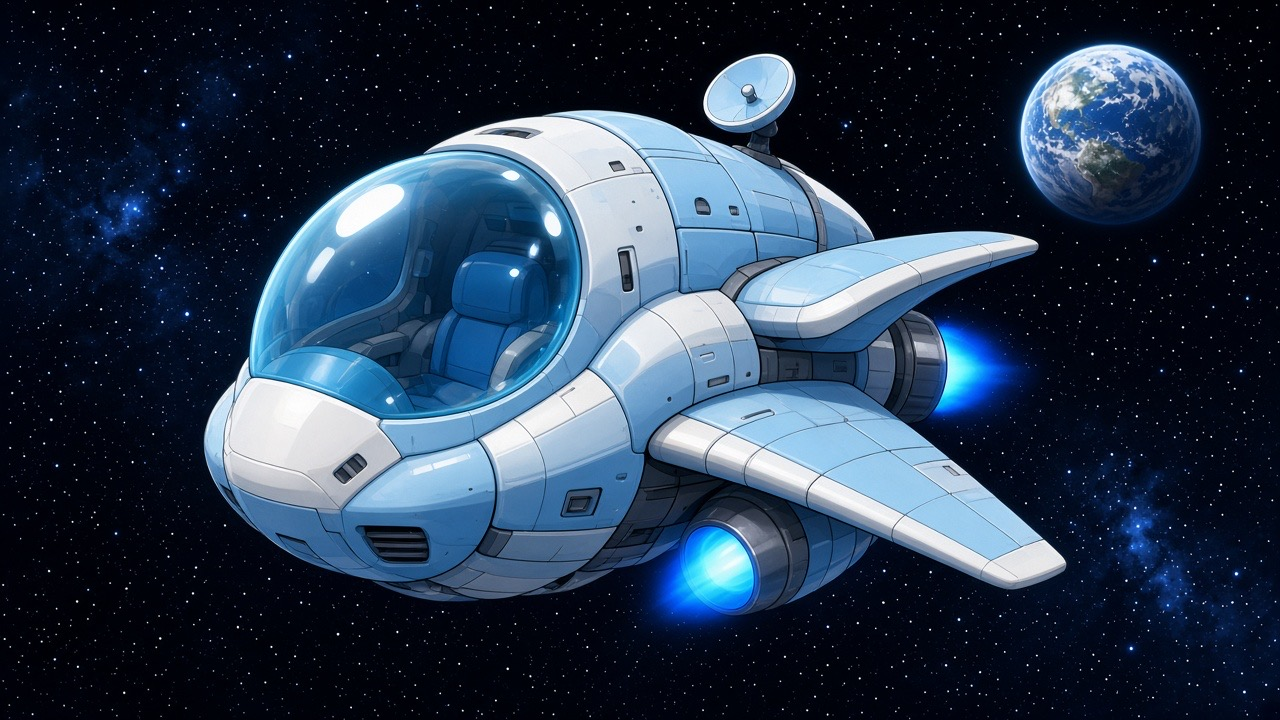
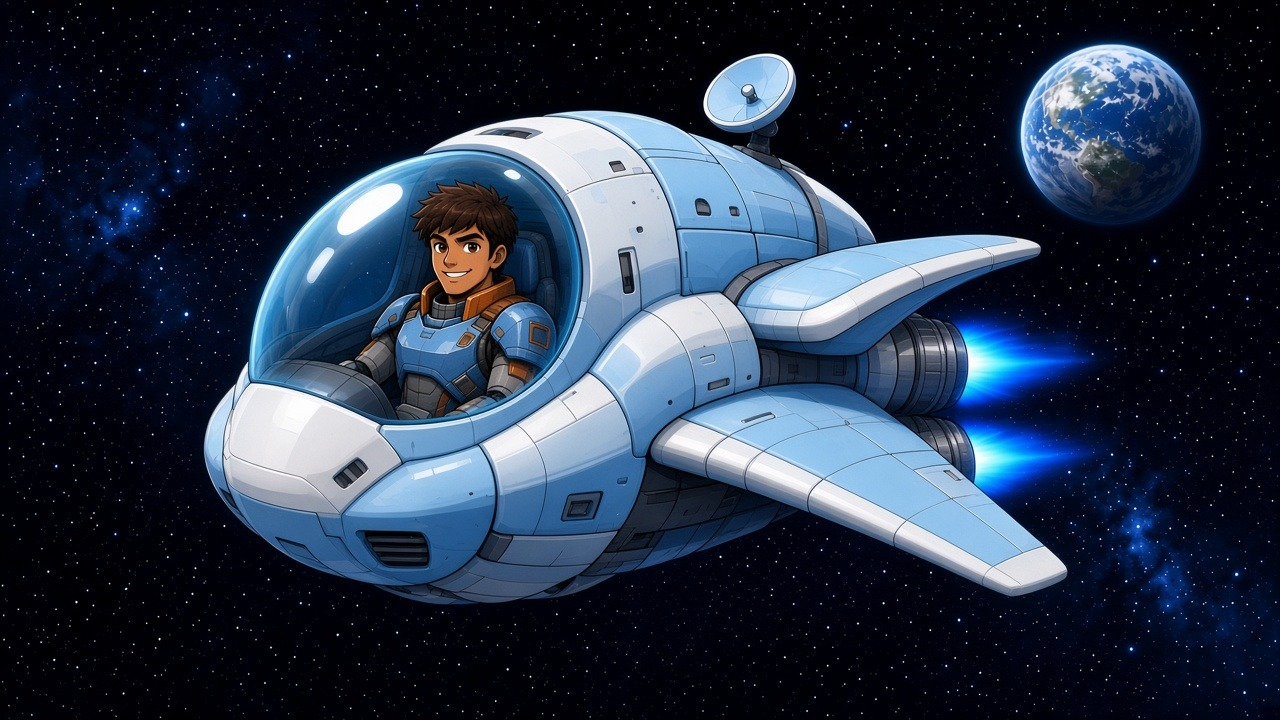
Build 26 (0315e58)

diff --git a/index.html b/index.html
@@ -5,4 +5,4 @@
 canvas{position:absolute;}#rot{display:none;position:fixed;inset:0;color:#ffc53d;font:bold 22px sans-serif;align-items:center;justify-content:center;text-align:center;background:#090c26}
 @media (orientation:portrait){#rot{display:flex}}</style></head><body>
 <canvas id="c"></canvas><div id="rot">Turn your device sideways<br>to play Pale Blue: Crystal Defenders</div>
-<script src="game.js?v=5dbbdb0"></script></body></html>
+<script src="game.js?v=0315e58"></script></body></html>

diff --git a/assets/icon/make_icon.py b/assets/icon/make_icon.py
@@ -72,7 +72,9 @@ def add_pilot(shipI):
     hlI=Image.fromarray((hl*235).astype('uint8')).filter(ImageFilter.GaussianBlur(1))
     wh=Image.new('RGBA',(W0,H0),(240,250,255,0));wh.putalpha(hlI);out.alpha_composite(wh)
     return out
-shipI=add_pilot(shipI)
+# pilot is painted into the source art now (build 26)
+# # pilot is painted into the source art now (build 26)
+# shipI=add_pilot(shipI)
 
 rng=np.random.default_rng(7)
 def scene(S,icon):
@@ -117,5 +119,5 @@ def compose(S,icon):
     y,x=np.mgrid[0:S,0:S]/S;v=1-.5*np.clip(((x-.5)**2+(y-.5)**2)*2.2-.15,0,1)
     arr=np.asarray(im.convert('RGB')).astype(float)*v[...,None]
     return Image.fromarray(arr.clip(0,255).astype('uint8'))
-ic=compose(1024,True);ic.save('assets/icon/AppIcon-1024.png')
+# app icon is separate art; not regenerated
 sp=compose(2732,False);sp.save('assets/icon/splash-2732.png')
